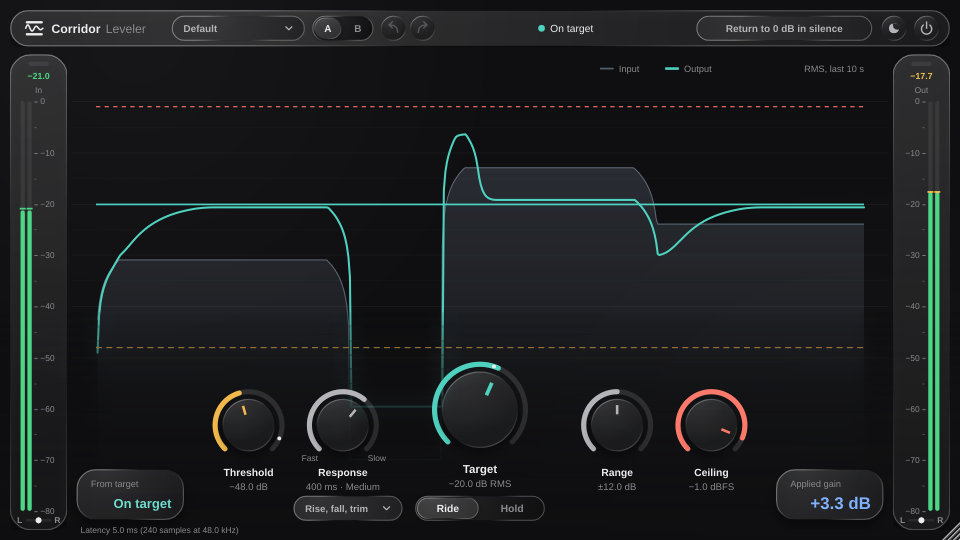
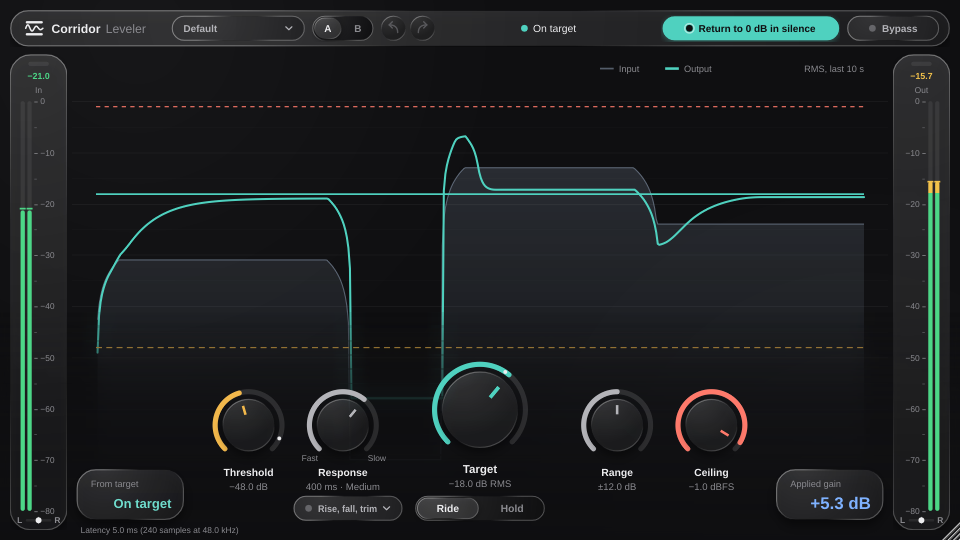
Keep the header status readable when an update is offered; refresh screenshots
The wider Bypass and Return to 0 dB toggles had squeezed the status text to
"On ta..." whenever the Update button was showing. Narrow both toggles and the
Update button so the status fits again, and re-render the README screenshots
with the new toggles.

Claude-Session: https://claude.ai/code/session_01CanfjdPBpseT4QtetW8Cj8

diff --git a/plugin/src/PluginEditor.cpp b/plugin/src/PluginEditor.cpp
@@ -1259,10 +1259,10 @@ public:
         ab.setBounds(364, 18, 72, 30);
         undoBtn.setBounds(444, 18, 30, 30);
         redoBtn.setBounds(478, 18, 30, 30);
-        bypassBtn.setBounds(W - 24 - 112, 18, 112, 30);
-        easeBtn.setBounds(bypassBtn.getX() - 8 - 220, 18, 220, 30);
+        bypassBtn.setBounds(W - 24 - 108, 18, 108, 30);
+        easeBtn.setBounds(bypassBtn.getX() - 8 - 208, 18, 208, 30);
         int statusRight = easeBtn.getX() - 12;
-        if (updateBtn.isVisible()) { updateBtn.setBounds(easeBtn.getX() - 12 - 150, 18, 150, 30); statusRight = updateBtn.getX() - 8; }
+        if (updateBtn.isVisible()) { updateBtn.setBounds(easeBtn.getX() - 8 - 136, 18, 136, 30); statusRight = updateBtn.getX() - 8; }
         header.statusArea = Rectangle<float>(520.f - kHeader.getX(), 0.f, float(statusRight - 520), 42.f);
         // controls: Threshold and Response left, Target in the middle with Ride / Hold under it, Range and Ceiling right
         threshold.placeAt({290, 496});
